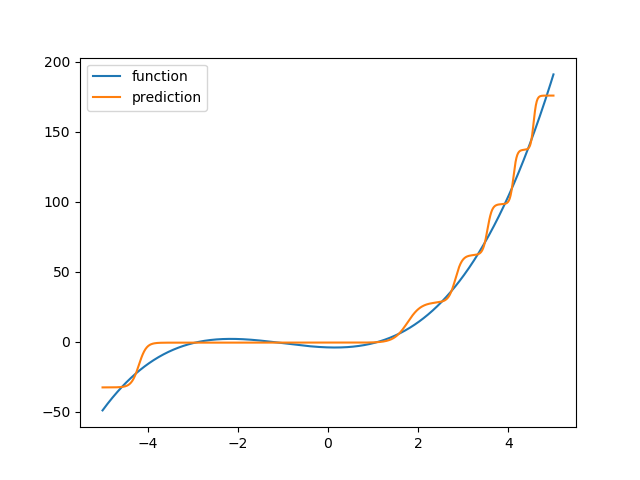
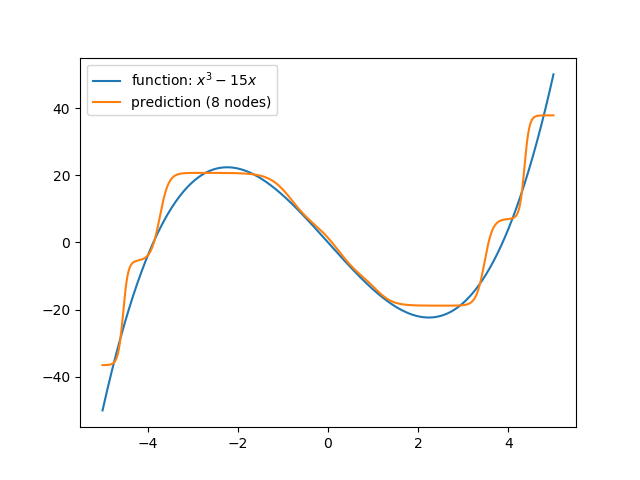
Add files via upload

diff --git a/linear.py b/linear.py
@@ -9,24 +9,27 @@ import numpy as np
 np.set_printoptions(formatter={"float": "{: 0.3f}".format}, linewidth=np.inf)
 np.random.seed(1)
 
-X = np.array([[0], [1], [2], [3], [4]])  # input
-Y = 2 * X + 3  # output: y = 2x + 3
+X = np.array([[0], [1], [2], [3], [4]])  # X = input (here: 5 values)
+Y = 2 * X + 3  # Y = output: y = 2x + 3 (as many values as there are X's)
 
-W = np.random.normal(scale=0.1, size=(1, 1))  # layer: 1 node with 1 input
-B = np.random.normal(scale=0.1, size=(1, 1))  # bias: for 1 node (by definition 1 bias)
+W = np.random.normal(scale=0.1, size=(1, 1))  # layer: (1, 1) = 1 node with 1 input
+B = np.random.normal(scale=0.1, size=(1, 1))  # bias: (1, 1) = for 1 node (and by definition only 1 bias value per node)
 
 learning_rate = 0.001
 iterations = 10000
 error = []
 
-print("initial:", "W =", W, "B =", B)
+print("initial :", "W =", W, "B =", B, "(random initialization)")
 
 m = X.shape[0]
 
 for _ in range(iterations):
-    a = W.dot(X.T) + B  # forward pass
-    da = a - Y.T  # back propagation
-    dz = da
+    # forward pass
+    a = W.dot(X.T) + B
+
+    # back propagation
+    da = a - Y.T  # da = error
+    dz = da  # no activation
     dw = dz.dot(X) / m
     db = np.sum(dz, axis=1, keepdims=True) / m
 
@@ -35,9 +38,11 @@ for _ in range(iterations):
 
     error.append(np.average(da ** 2))
 
-print("result :", "W =", W, "B =", B)
+print("result  :", "W =", W, "B =", B, "(after {} iterations)".format(iterations))
+print("expected: W = 2, B = 3")
 
 plt.plot(range(iterations), error)
+plt.title("MSE (mean squared error)")
 plt.xlabel("training iterations")
 plt.ylabel("mse")
 plt.show()

diff --git a/cubic.py b/cubic.py
@@ -9,13 +9,13 @@ np.set_printoptions(formatter={"float": "{: 0.3f}".format}, linewidth=np.inf)
 np.random.seed(1)
 
 x = np.linspace(-5, +5, 1000)
-y = (x ** 3) + 3 * (x ** 2) - 1 * x - 4
+y = x ** 3 - 15 * x
 
-X = x.reshape(-1, 1)
+X = x.reshape(-1, 1)  # from [x] to [1][x]
 Y = y.reshape(-1, 1)
 
 n_input_nodes = 1
-n_hidden_nodes = 7  # the higher the number of notes the better the fit (e.g. try values from 2 to 10)
+n_hidden_nodes = 8  # the higher the number of notes the better the fit (e.g. try values from 2 to 10)
 n_output_nodes = 1
 
 W1 = np.random.normal(size=(n_hidden_nodes, n_input_nodes))  # layer 1 weights
@@ -64,17 +64,17 @@ def train(x, y, iterations=50000, learning_rate=0.001):
     return error
 
 
-error = train(X, Y, iterations=5000, learning_rate=0.2)
+error = train(X, Y, iterations=5000, learning_rate=0.2)  # lower learning rates give a better fit
 
 plt.plot(error)
+plt.title("MSE (mean squared error)")
 plt.xlabel("training iterations")
 plt.ylabel("mse")
 plt.show()
 
 Y_hat = forward(X)
 
-plt.plot(x, y, label="function")
-plt.plot(x, Y_hat.T, label="prediction")
-# plt.ylim((-10, +10))
+plt.plot(x, y, label=r"function: $x^3 - 15x$")
+plt.plot(x, Y_hat.T, label="prediction ({} nodes)".format(n_hidden_nodes))
 plt.legend()
 plt.show()

diff --git a/dataset.py b/dataset.py
@@ -92,7 +92,7 @@ def image2x2(vertical_only=False):
 
 
 def image2x2_set(no_of_sets=1, vertical_only=False):
-    """ Return one or more sets of grayscale images. Every sets contains all possible shapes (so 16 images). """
+    """ Return one or more sets of grayscale images. Every set contains all possible shapes (so 16 images). """
     grey_range = 0.2
     images = []
     labels = []

diff --git a/2x2_image_predefined_2.py b/2x2_image_predefined_2.py
@@ -11,7 +11,7 @@ W2 = np.array([[+1, +1]])  # layer 2: 1 node with 2 inputs + bias input
 B1 = np.array([[-1], [-1]])  # bias for nodes in layer 1
 B2 = np.array([[0]])  # bias for nodes in layer 2
 
-X, Y = dataset.image2x2_set(no_of_sets=1, vertical_only=True)
+X, Y = dataset.image2x2_set(no_of_sets=2, vertical_only=True)
 
 a = X.T
 

diff --git a/README.md b/README.md
@@ -6,11 +6,11 @@ A neural network can be created just by using numpy. No high level frameworks ar
 In all examples I assume the use of supervised learning. For supervised learning datasets are needed which specify inputs and the corresponding output. File *dataset.py* contains a number of exercise datasets. The simplest ones are truth tables for logical functions like XOR. A variant is a 2x2 pixel image which can contain several shapes (here I distinguish vertical, horizontal and diagonal lines). To make life a bit more interesting the images are not only black and white (i.e. 1's and 0's) but can be turned into grayscale images where the shade of gray is a scalar ranging from 0 to 1.
 
 #### Inference only
-For starters I have created a few ready to use networks. A neural network consists of layers containing nodes. Each node has inputs, weights and a bias. The output of a node is the sum of every input * its weight plus the bias value. There are two ways to code this in numpy: specifying the bias as a separate value, or considering the bias as a weight which always has an input of 1. Files *2x2_image_predefined_x.py* show both approaches. Weights and biases are already determined elsewhere (and work for almost monochrome images), so the code only needs to do a forward pass through the network to translate the input into output. The image below gives a graphical representation.
+For starters I have created a few ready to use networks. A neural network consists of layers containing nodes. Each node has inputs, weights and a bias. The output of a node is the sum of every input * its weight plus the bias value. There are two ways to code this in numpy: specifying the bias as a separate value, or considering the bias as a weight which always has an input of 1. Files *2x2_image_predefined_1|2.py* show both approaches. Weights and biases are already determined elsewhere (and work for almost monochrome images), so the code only needs to do a forward pass through the network to translate the input into output. The image below gives a graphical representation.
 
 ![](https://github.com/erikdelange/Neural-networks-in-numpy/blob/master/2x2.png)
 
-To avoid that the network can only approximate a linear function transfer or activation functions are needed. A set to use can be found in file *activation.py*.  
+To avoid that the network can only approximate a linear function transfer or activation functions are needed. A set to use can be found in file *activation.py*. It is the non-linear nature of these functions which make a neural network do its cool things.  
 
 #### Training  
 In contrast to the examples above normally training the network is required to determine the weight and bias values. The basic approach how to find these is to do a forward pass through the network and then back-propagate the errors, adjusting weights and biases proportionally. File *xor.py* gives the basic setup how to do this for a two layer network. Note that it does not matter how many nodes per layer there are, the code stays the same. Using the derivative of the activation function might seem confusing. Its importance is to determine the direction of the error so we know how to adjust the weights.
@@ -20,7 +20,7 @@ For a three layer network example see *2x2_image_recognition.py*.
 A generic approach - where the number of layers, nodes per layer and activation function per layer are not hard-coded but configurable - can be found in *network1.p*. 
 
 #### Function approximation
-In essence a neural network provides a function approximation where the function can be complex. For a linear function only one node is required. See *linear.py* for the approximation of y = ax + b. For polynomial functions of a degree above 1 we need more nodes. See *cubic.py* for an example of a degree of 3. The figure below shows how a neural network with a single hidden layer of 7 nodes can approximate function x^3 + x^2 - x - 4
+In essence a neural network provides a function approximation where the function can be complex. For a linear function only one node is required. See *linear.py* for the approximation of y = ax + b. For polynomial functions of a degree above 1 we need more nodes. See *cubic.py* for an example of a degree of 3. The figure below shows how a neural network with a single hidden layer of 8 nodes can approximate function x^3 + 15x
  
 
 ![](https://github.com/erikdelange/Neural-networks-in-numpy/blob/master/cubic.png)
